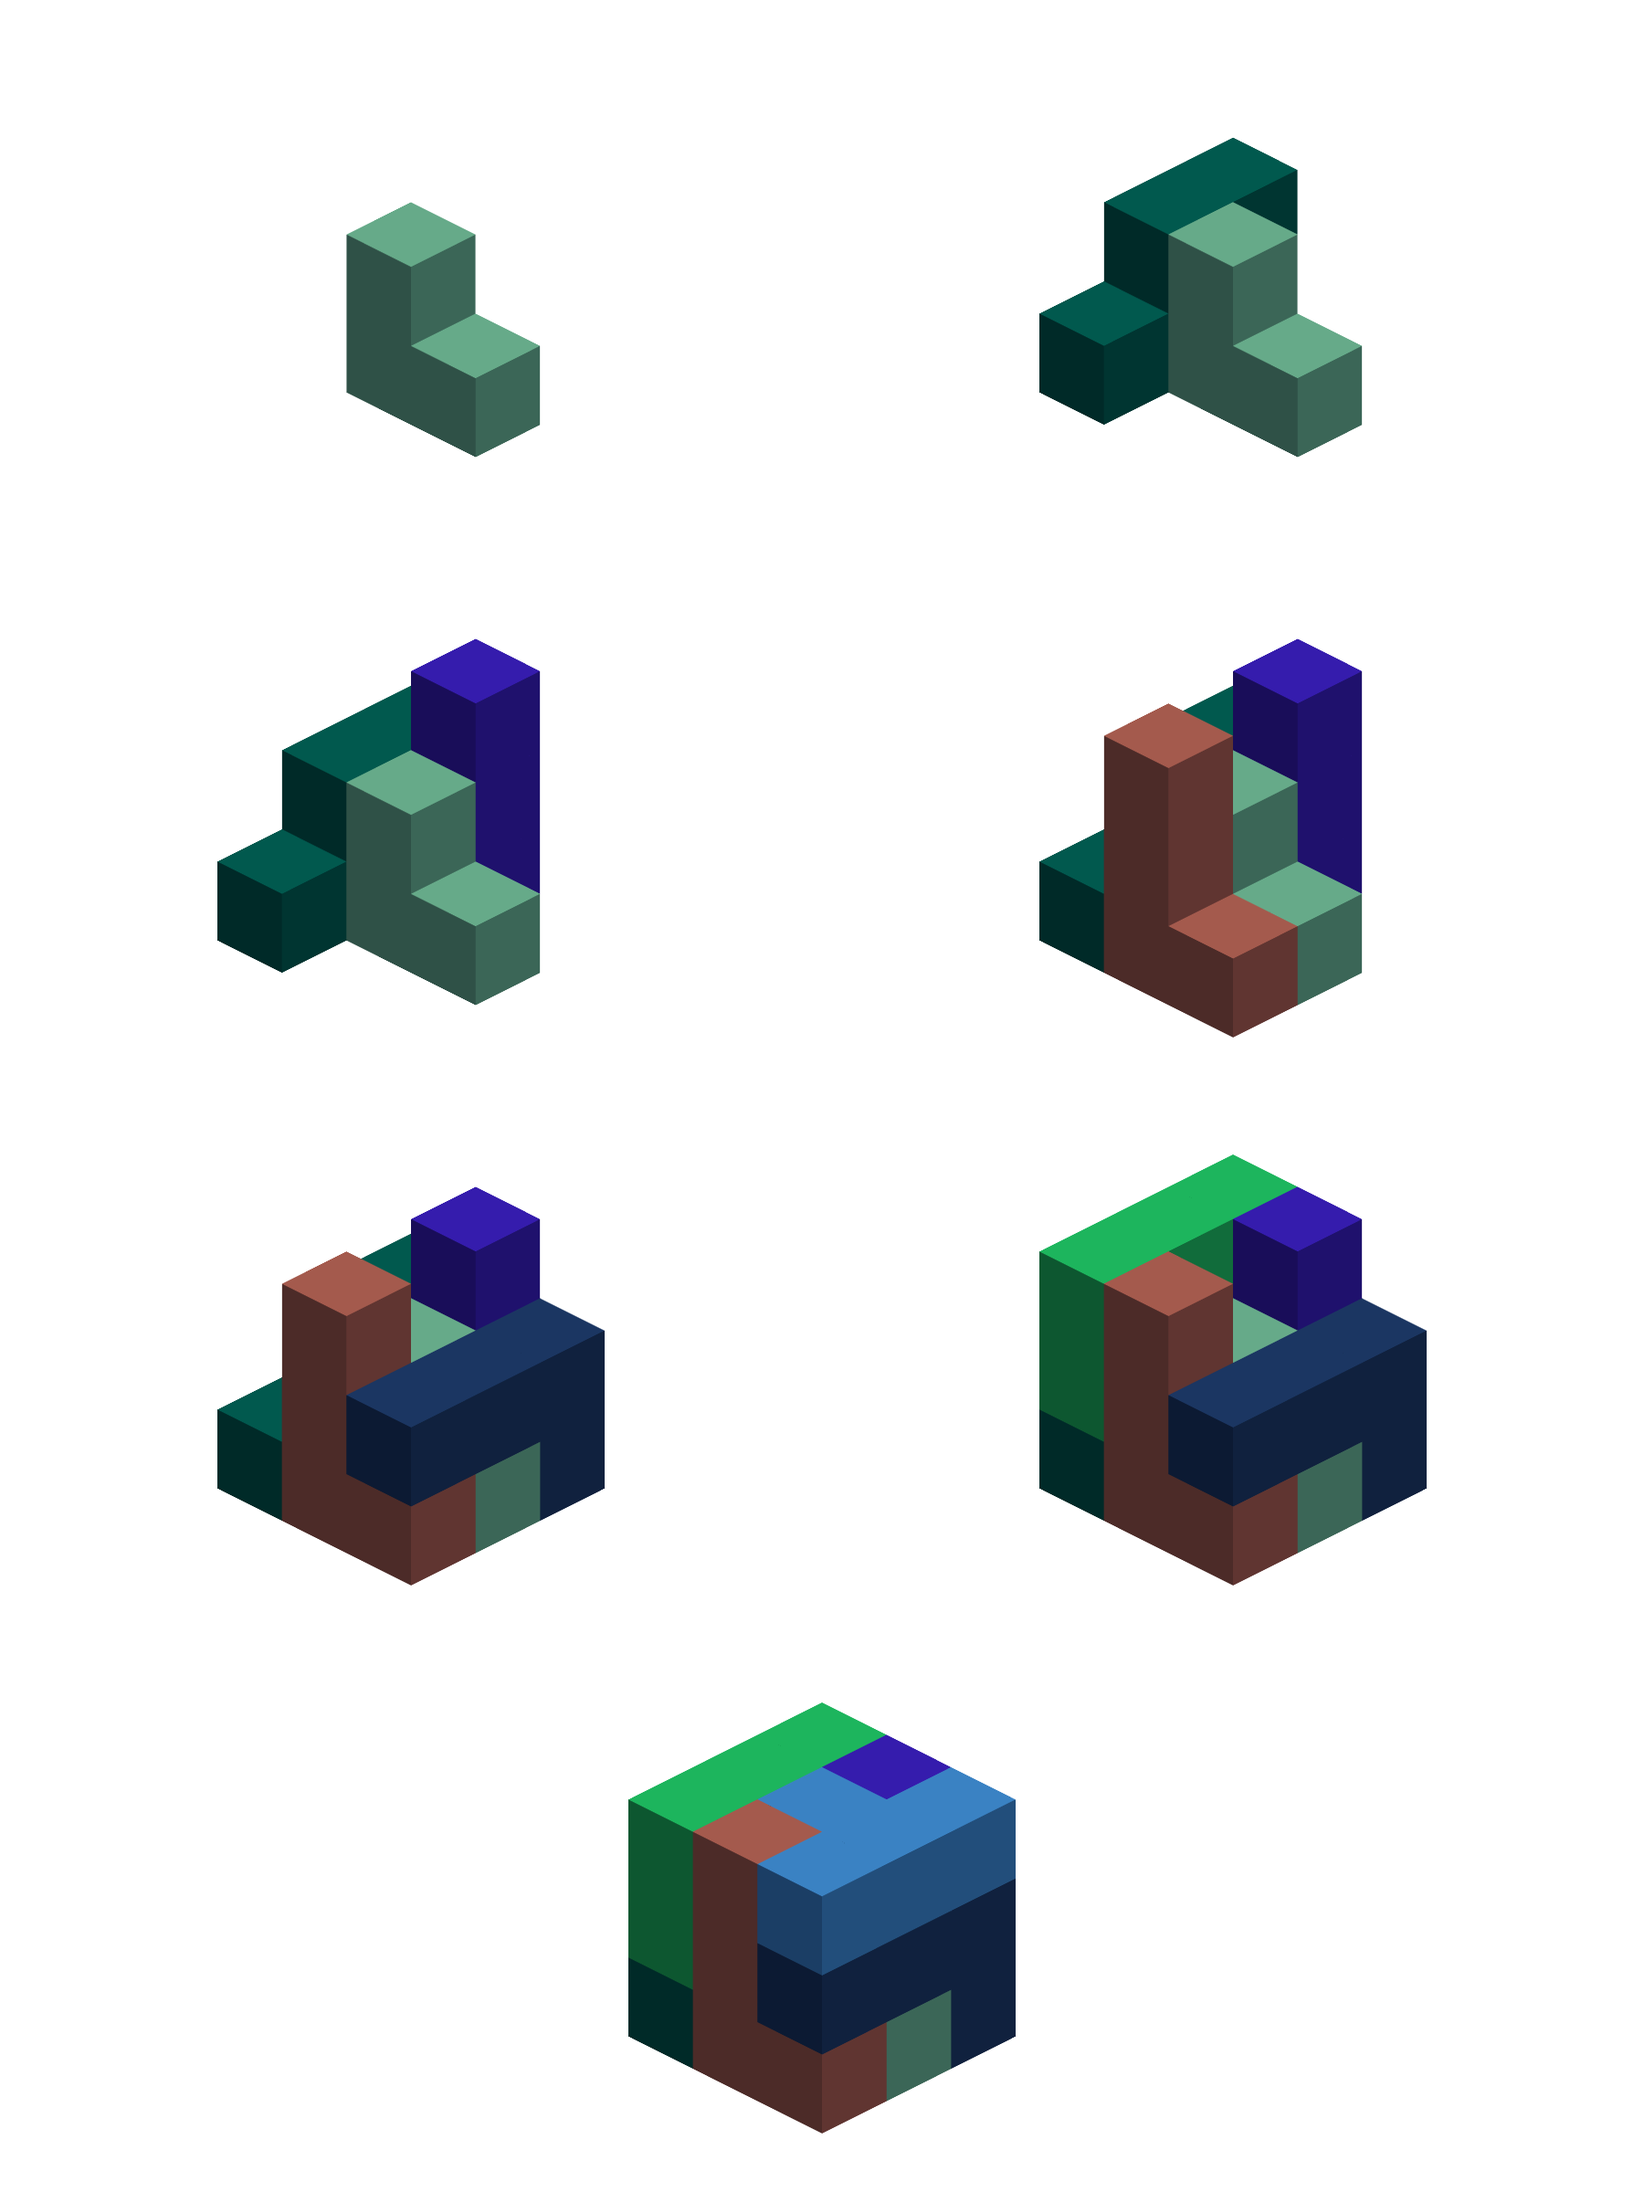
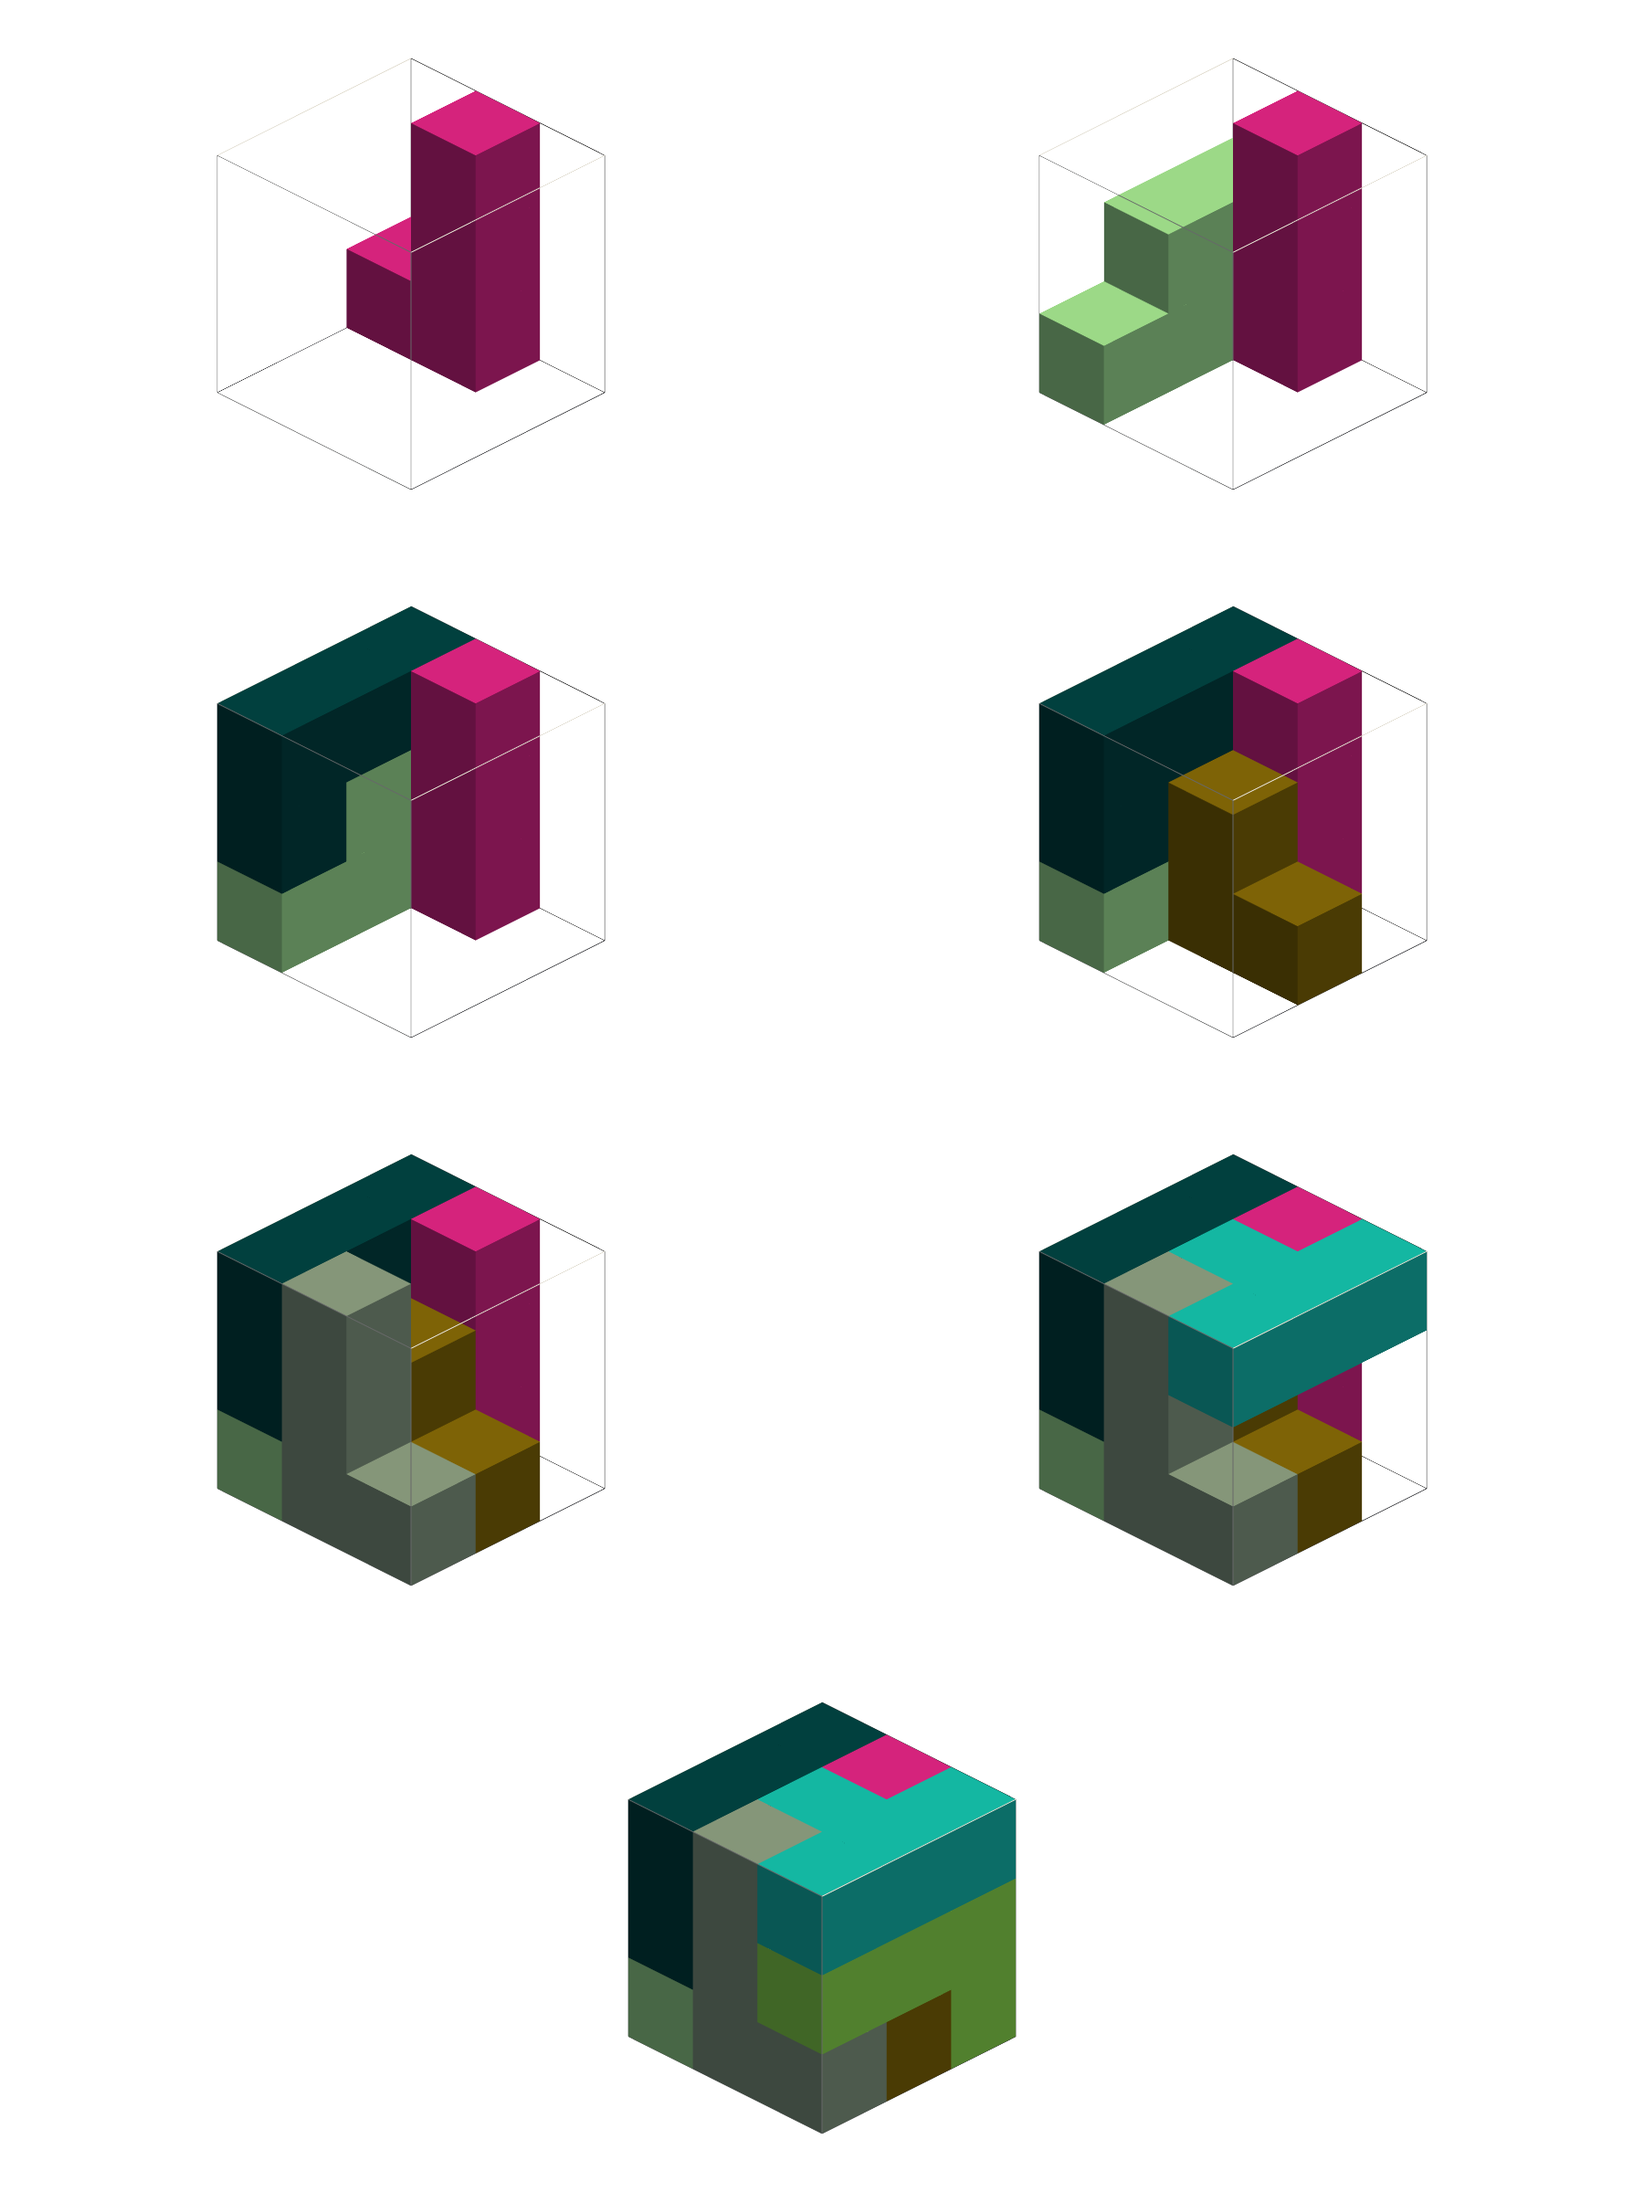
Adding wireframe

diff --git a/Labo2/Cube.py b/Labo2/Cube.py
@@ -78,9 +78,33 @@ def GetShapeActors(cube):
 
     return actors
 
+def CreateCubeWireframeActor(fragments):
+    xSize = len(fragments)
+    ySize = len(fragments[0])
+    zSize = len(fragments[0][0])
+
+    #creating the source
+    cubeSource = vtk.vtkCubeSource()
+    cubeSource.SetBounds(0, xSize, 0, ySize, 0, zSize)
+
+    # making an actor
+    mapper = vtk.vtkPolyDataMapper()
+    mapper.SetInputConnection(cubeSource.GetOutputPort())
+
+    actor = vtk.vtkActor()
+    actor.SetMapper(mapper)
+
+    # wireframing the actor
+    actor.GetProperty().SetRepresentationToWireframe()
+
+    return actor
+
 
 # Creating the actors shapes
 actors = GetShapeActors(shapeModel)
+
+# Creating the cube wireframe
+wireframe = CreateCubeWireframeActor(shapeModel)
 
 # Creating a renderer for each step
 renderers = []
@@ -94,12 +118,12 @@ for i in range(len(actors)):
     for j in range(i + 1):
         # print(i)
         ren.AddActor(actors[j])
+    
+    # Adding the wireframe
+    ren.AddActor(wireframe)
 
 
-
-# Finally we create the render window which will show up on the screen
-# We put our renderer into the render window using AddRenderer. We
-# also set the size to be 800 pixels by 600.
+# Creating the render window
 renWin = vtk.vtkRenderWindow()
 
 # ---- Creating a viewport for every renderer
@@ -132,7 +156,7 @@ center = len(shapeModel) / 2
 camera.SetFocalPoint(center, center, center)
 for ren in renderers:
     ren.SetActiveCamera(camera)
-    #modifying the light to have some shadow with ParallelProjection
+    #modifying the light to have some shadows with ParallelProjection
     lightKit = vtk.vtkLightKit()
     lightKit.MaintainLuminanceOn()
     lightKit.AddLightsToRenderer(ren)
@@ -152,19 +176,9 @@ writer.SetFileName("cubeSteps.png")
 writer.SetInputConnection(imageFilter.GetOutputPort())
 writer.Write()
 
-# used for interaction
+# rendering
 iren = vtk.vtkRenderWindowInteractor()
 iren.SetRenderWindow(renWin)
 
 renWin.Render()
 iren.Start()
-
-# used for interaction
-'''
-iren = vtk.vtkRenderWindowInteractor()
-iren.SetRenderWindow(renWin)
-
-iren.Initialize()
-renWin.Render()
-iren.Start()
-'''
